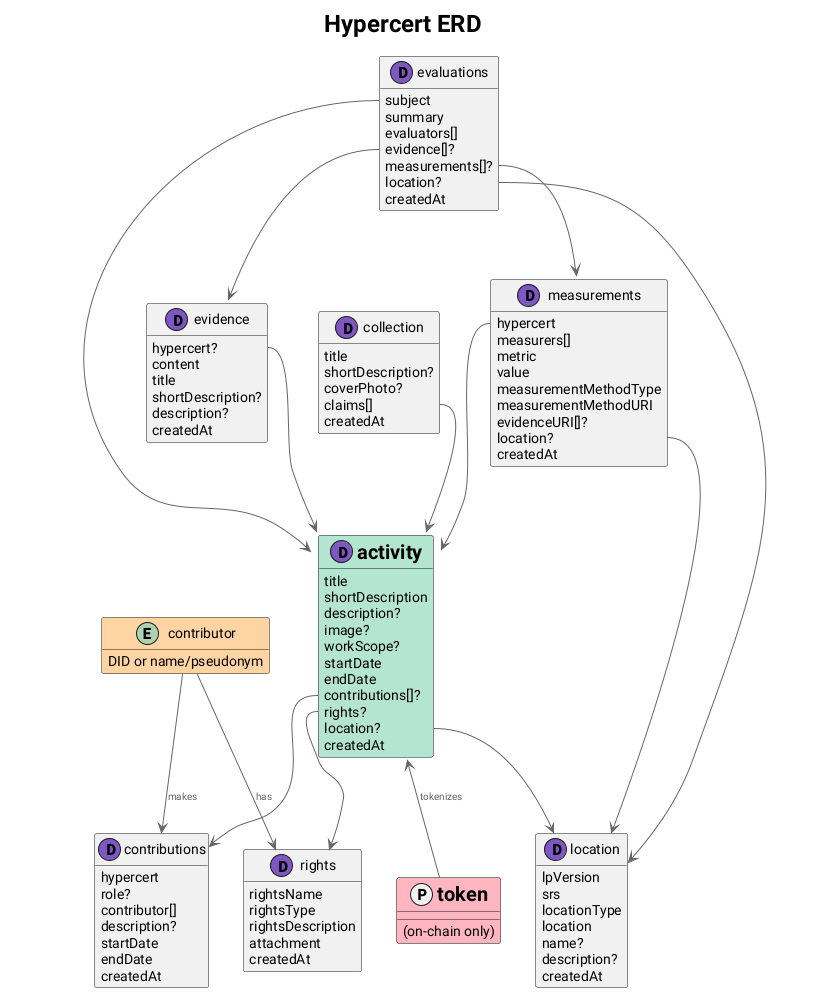
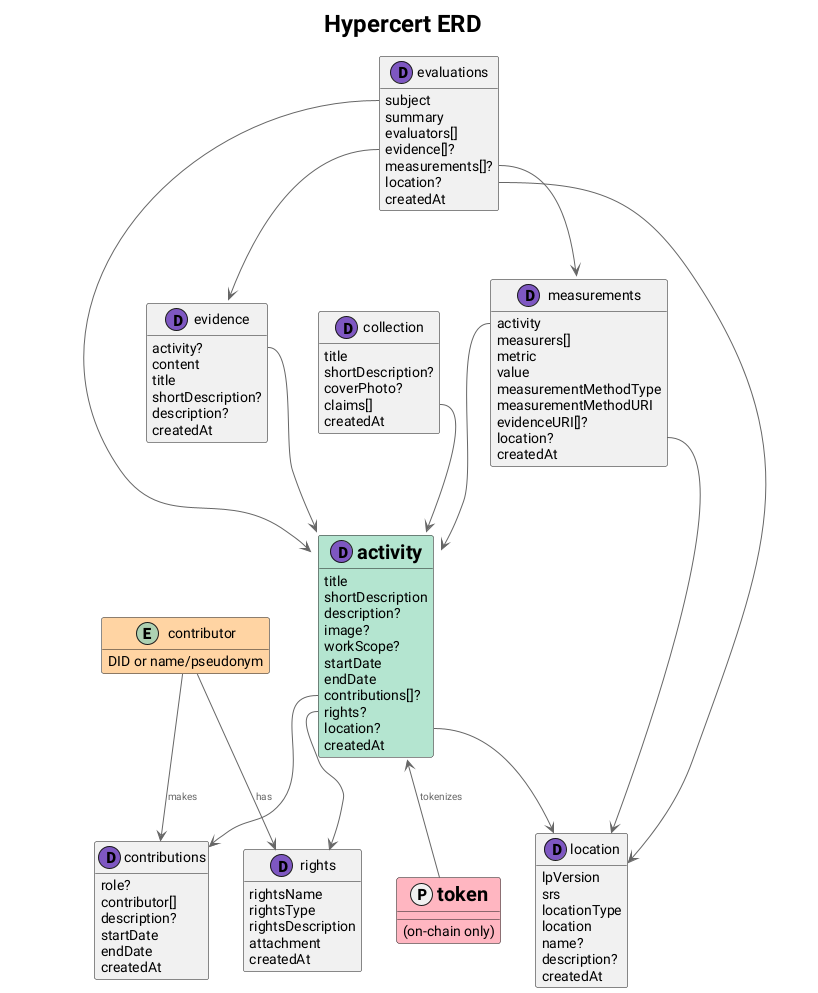
rename "hypercert" fields to "activity"
This matches the rename of the main hypercert record to
org.hypercerts.claim.activity.

Changed region(s): [[0.1222, 0.8117, 0.2751, 0.999], [0.1834, 0.3434, 0.2751, 0.3746], [0.6112, 0.3122, 0.6724, 0.3434]]

diff --git a/README.md b/README.md
@@ -176,7 +176,7 @@ Hypercerts-specific lexicons for tracking impact work and claims.
 
 | Property           | Type     | Required | Description                                                                | Comments                                                                          |
 | ------------------ | -------- | -------- | -------------------------------------------------------------------------- | --------------------------------------------------------------------------------- |
-| `hypercert`        | `ref`    | ❌       | A strong reference to the hypercert this evidence is for                   | The record referenced must conform with the lexicon `org.hypercerts.claim.activity` |
+| `activity`         | `ref`    | ❌       | A strong reference to the activity this evidence is for                    | The record referenced must conform with the lexicon `org.hypercerts.claim.activity` |
 | `content`          | `union`  | ✅       | A piece of evidence (URI or blobs) supporting a hypercert claim            |                                                                                   |
 | `title`            | `string` | ✅       | Title to describe the nature of the evidence                                |                                                                                   |
 | `shortDescription` | `string` | ❌       | Short description explaining what this evidence demonstrates or proves     |                                                                                   |
@@ -197,7 +197,7 @@ Hypercerts-specific lexicons for tracking impact work and claims.
 
 | Property               | Type     | Required | Description                                                                   | Comments                                                                          |
 | ---------------------- | -------- | -------- | ----------------------------------------------------------------------------- | --------------------------------------------------------------------------------- |
-| `hypercert`            | `ref`    | ✅       | A strong reference to the hypercert that this measurement is for              | The record referenced must conform with the lexicon `org.hypercerts.claim.activity` |
+| `activity`             | `ref`    | ✅       | A strong reference to the activity that this measurement is for             | The record referenced must conform with the lexicon `org.hypercerts.claim.activity` |
 | `measurers`            | `array`  | ✅       | DIDs of the entity (or entities) that measured this data                      |                                                                                   |
 | `metric`               | `string` | ✅       | The metric being measured                                                     |                                                                                   |
 | `value`                | `string` | ✅       | The measured value                                                            |                                                                                   |
